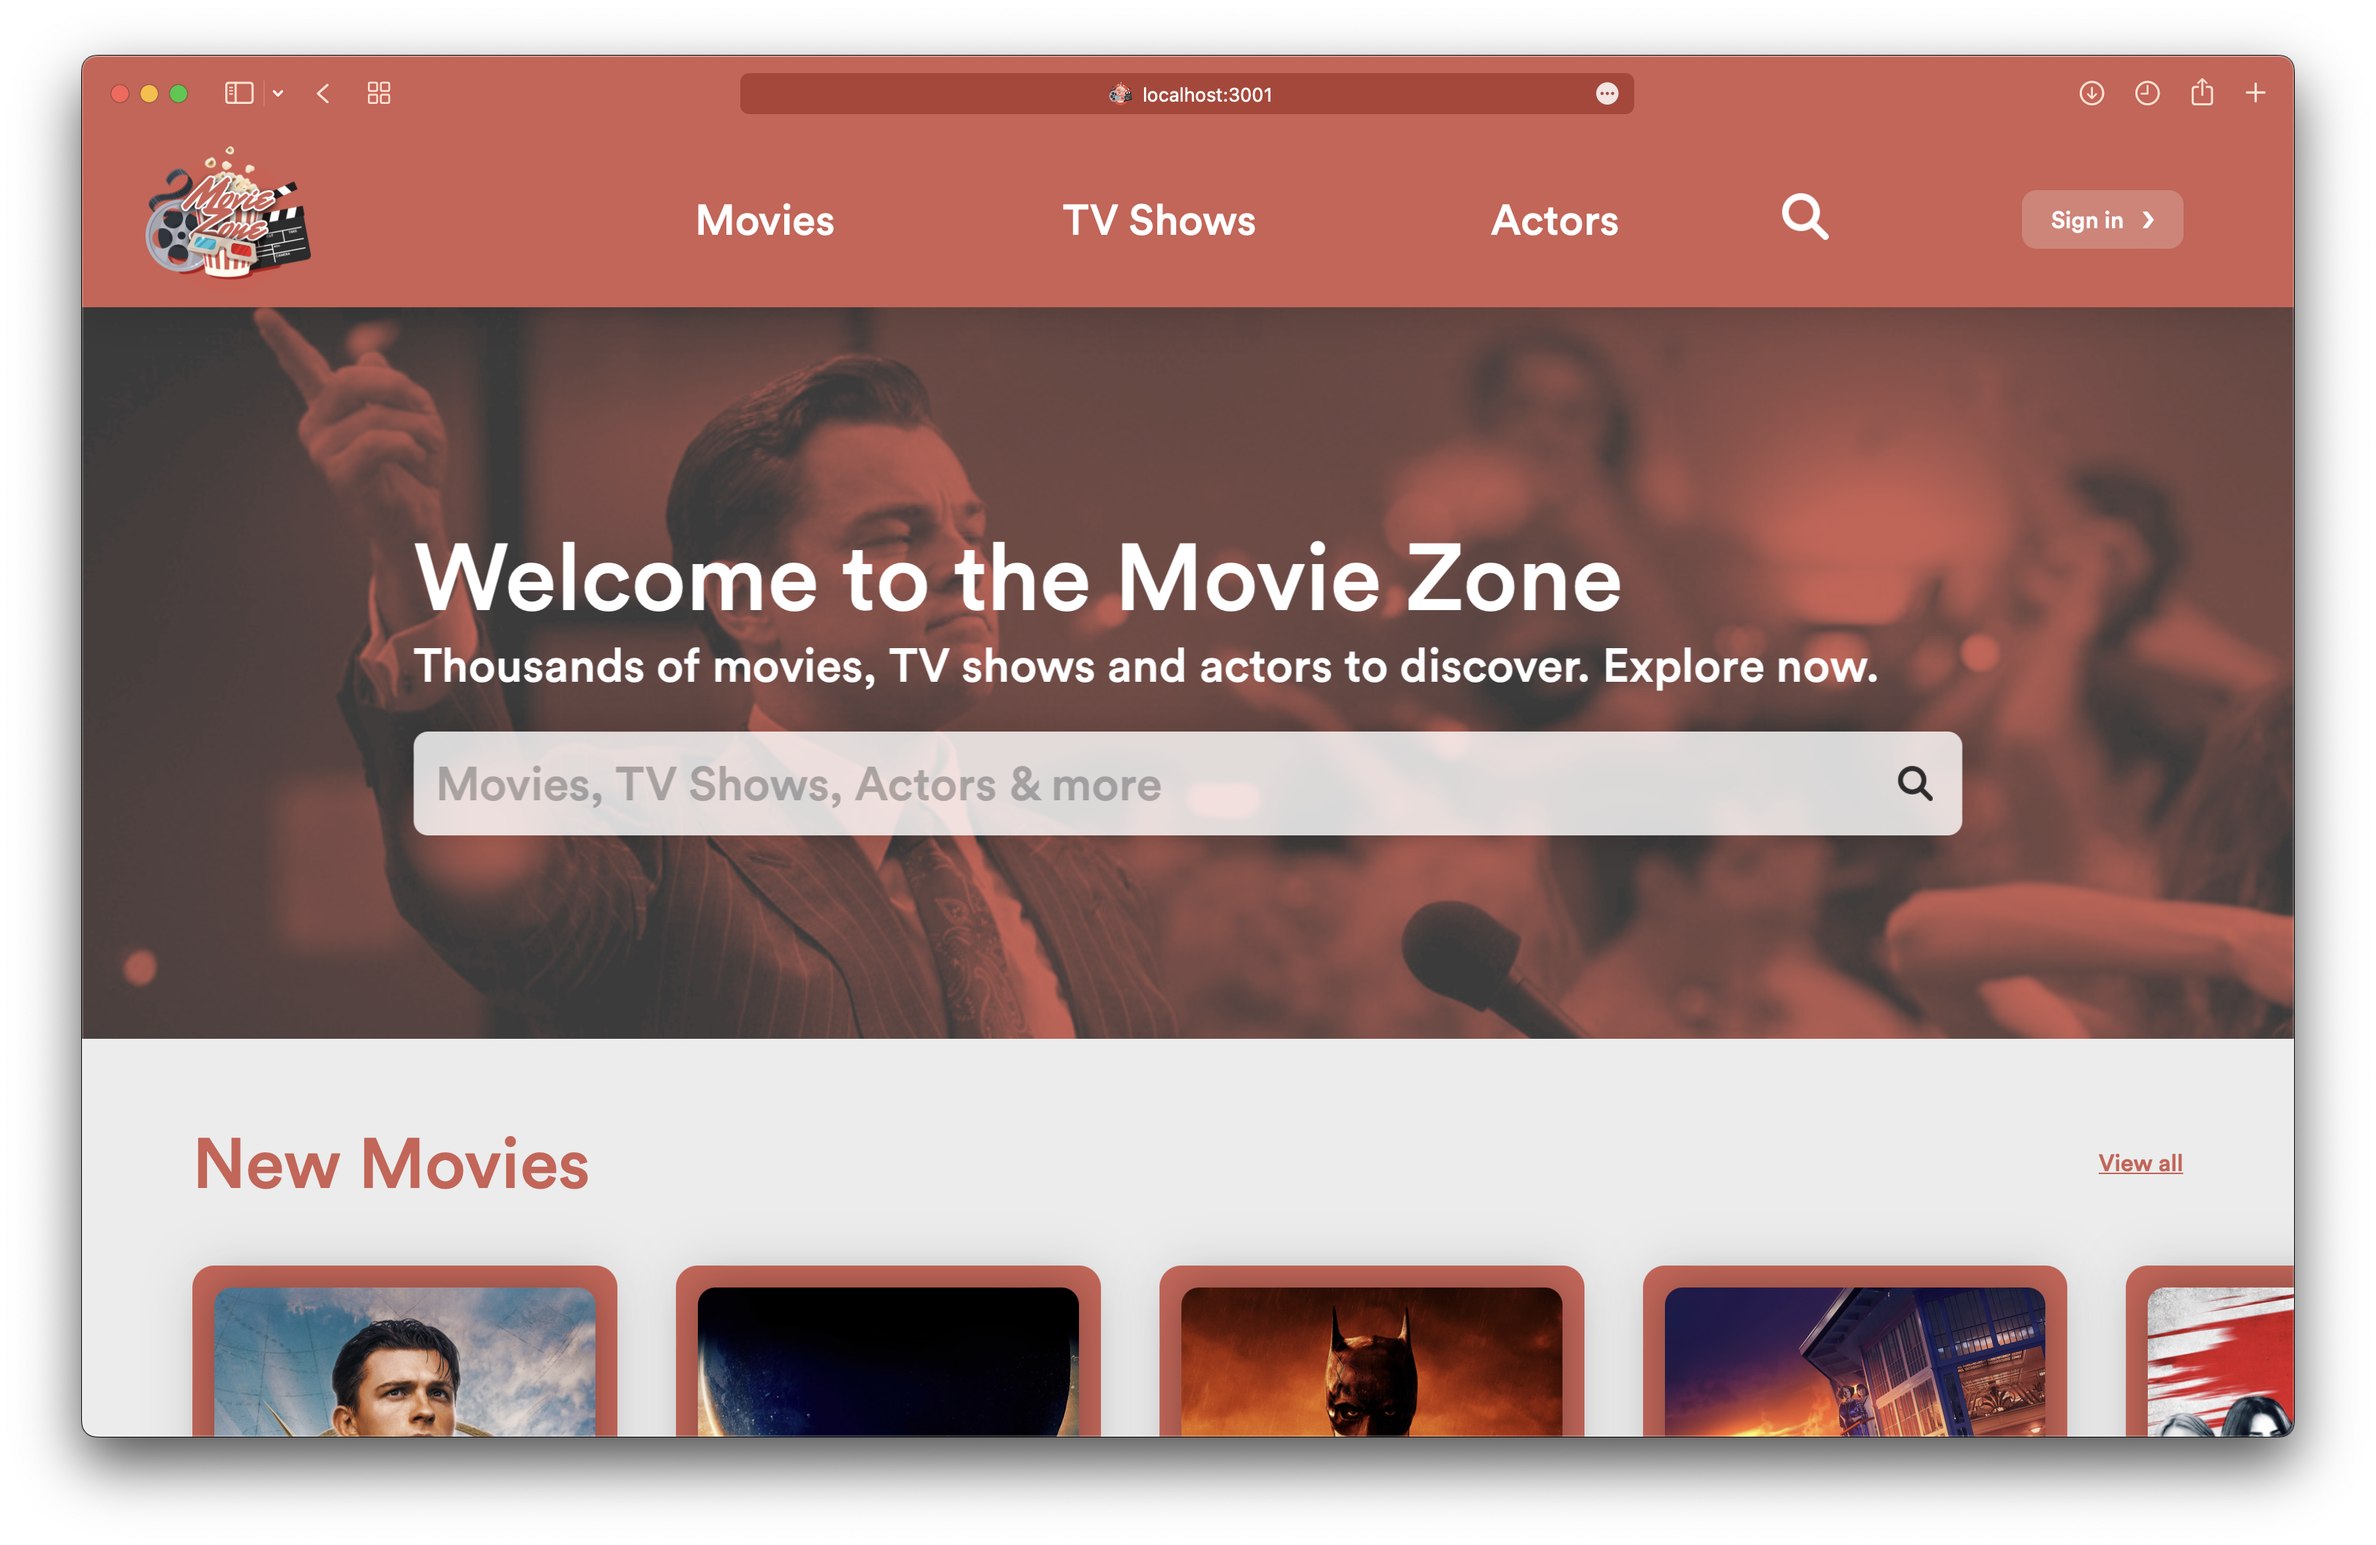
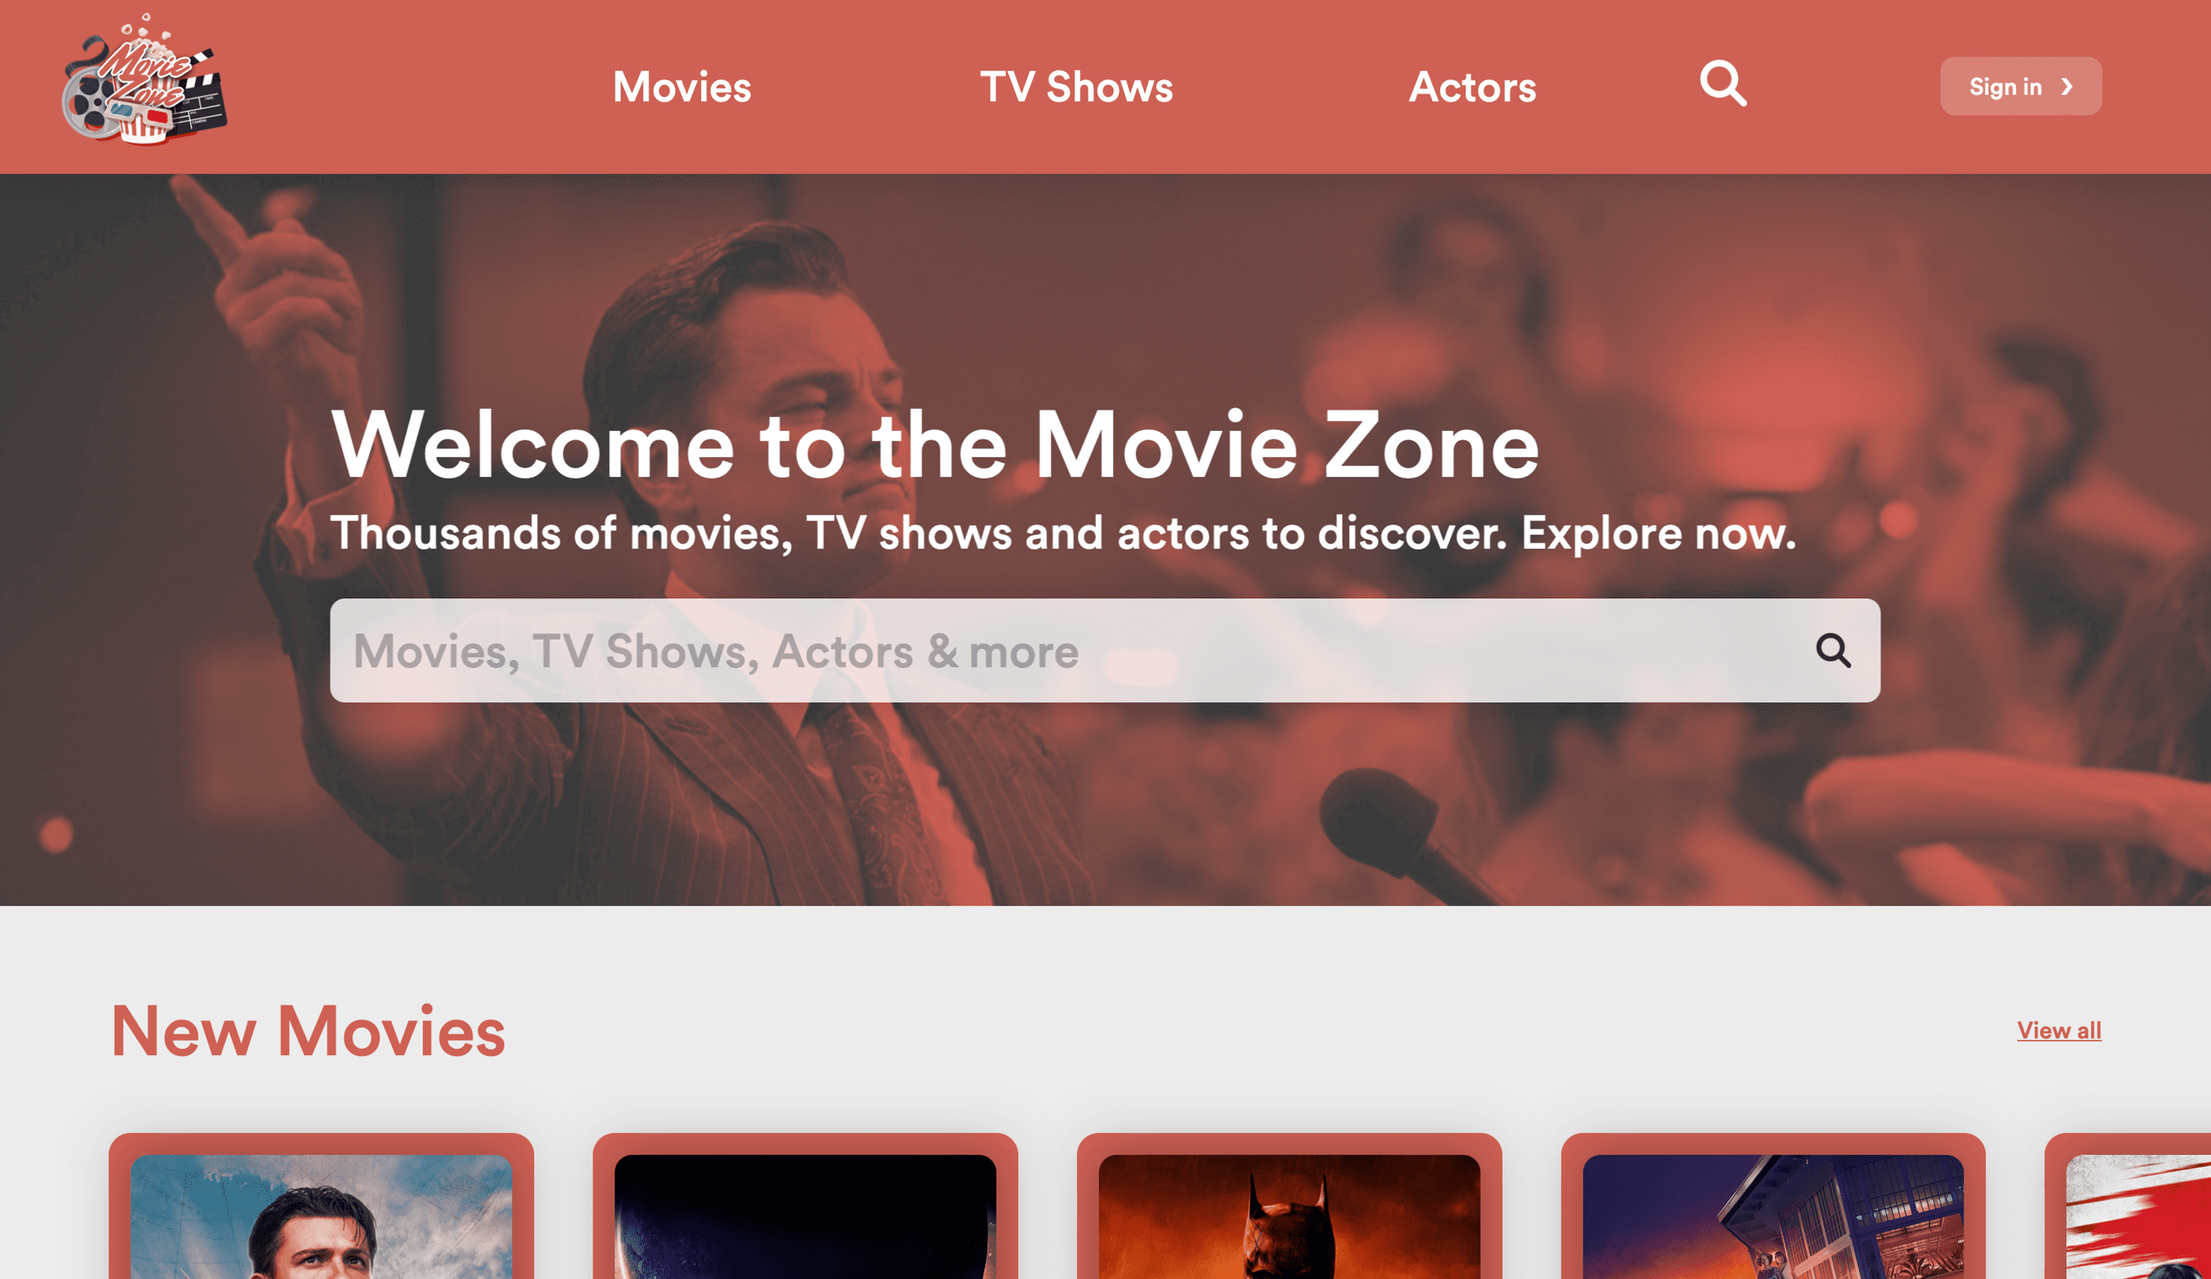
compress & crop images

diff --git a/README.md b/README.md
@@ -11,48 +11,48 @@
 
 **Features a beautiful inviting UI**
 
-![home](https://raw.githubusercontent.com/TahaInc/movie-zone/master/images/screenshot_1.png)
+![home](./images/screenshot_1.png)
 
 <br />
 
 **You can login to save movies to your watchlist**
 
-![login](https://raw.githubusercontent.com/TahaInc/movie-zone/master/images/screenshot_2.png)
+![login](./images/screenshot_2.png)
 
 <br />
 
 **Access very thorough filter queries**
 
-![birthday](https://raw.githubusercontent.com/TahaInc/movie-zone/master/images/screenshot_3.png)
+![birthday](./images/screenshot_3.png)
 
 <br />
 
 **Search what's popular right now**
 
-![popular](https://raw.githubusercontent.com/TahaInc/movie-zone/master/images/screenshot_4.png)
+![popular](./images/screenshot_4.png)
 
 <br />
 
 **Gorgeous movie views with complete information**
 
-![movie](https://raw.githubusercontent.com/TahaInc/movie-zone/master/images/screenshot_5.png)
+![movie](./images/screenshot_5.png)
 
 <br />
 
 **An exhaustive actor view with all the movies they star in**
 
-![actor](https://raw.githubusercontent.com/TahaInc/movie-zone/master/images/screenshot_6.png)
+![actor](./images/screenshot_6.png)
 
 <br />
 
 **Easily view and edit your watchlist**
 
-![watchlist](https://raw.githubusercontent.com/TahaInc/movie-zone/master/images/screenshot_7.png)
+![watchlist](./images/screenshot_7.png)
 
 <br />
 
 **A powerful and instant searchbar**
 
-![search](https://raw.githubusercontent.com/TahaInc/movie-zone/master/images/screenshot_8.png)
+![search](./images/screenshot_8.png)
 
 <br />
